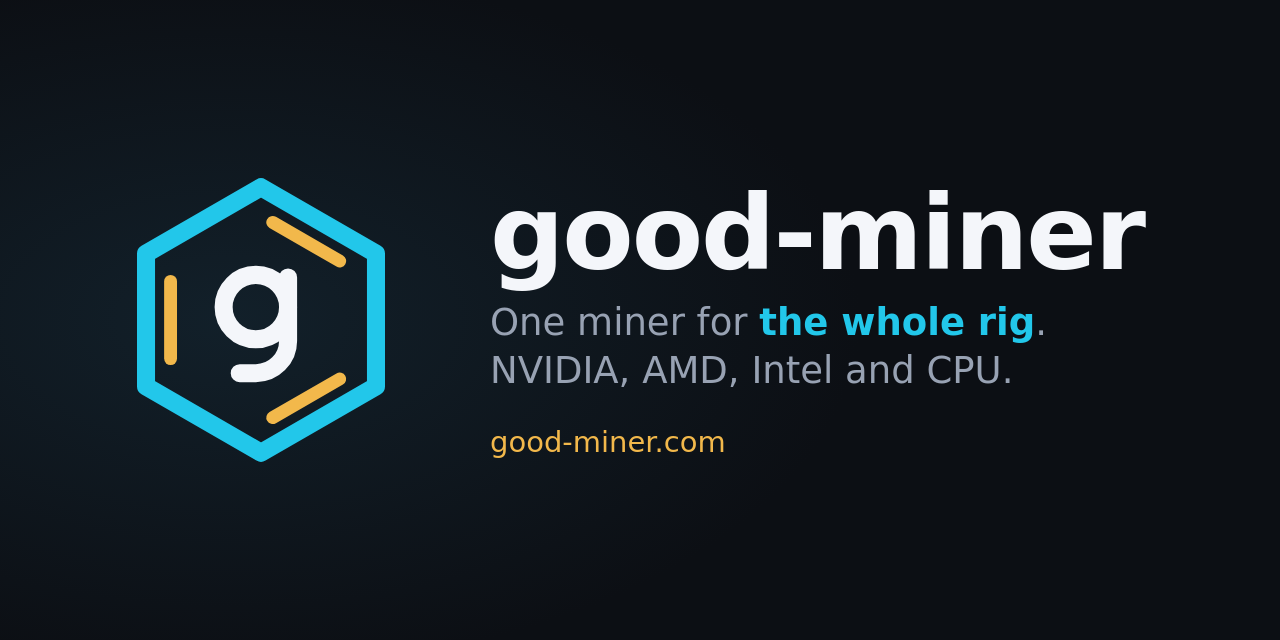
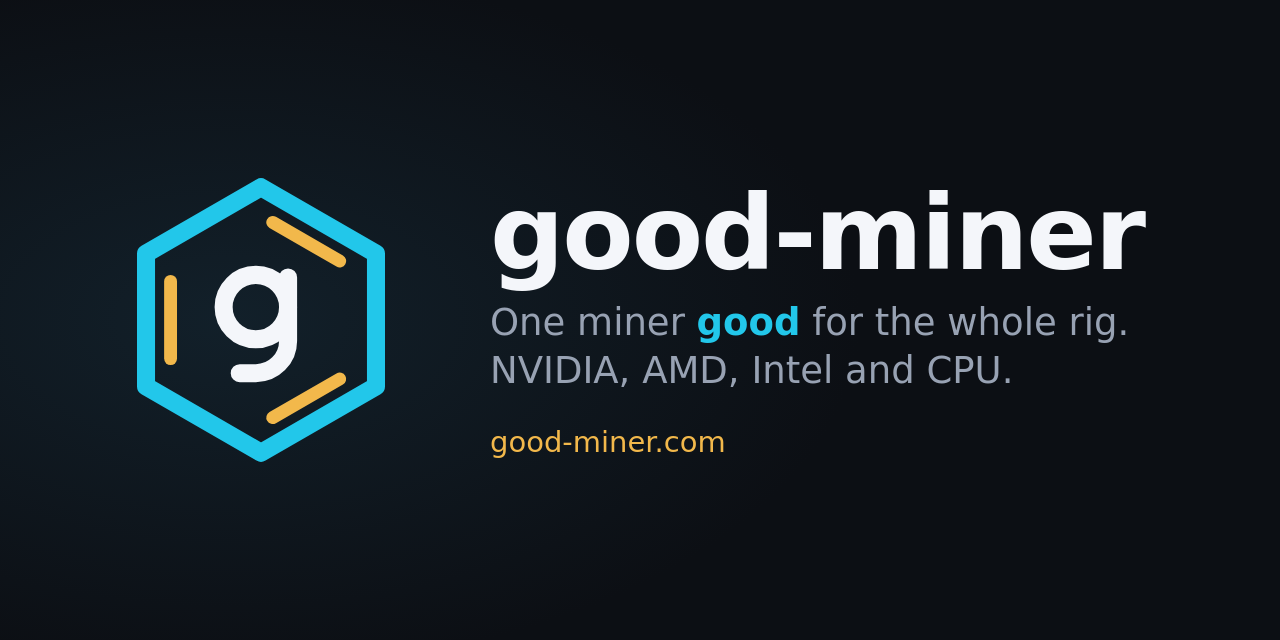
One miner good for the whole rig

Changed region(s): [[0.5312, 0.4688, 0.875, 0.5312]]

diff --git a/index.html b/index.html
@@ -3,10 +3,10 @@
 <head>
 <meta charset="utf-8">
 <meta name="viewport" content="width=device-width, initial-scale=1">
-<title>good-miner: one miner for the whole rig</title>
+<title>good-miner: one miner good for the whole rig</title>
 <meta name="description" content="good-miner is a cryptocurrency miner written from scratch in Rust. One program for NVIDIA, AMD and Intel graphics and CPUs, with auto profit switching and a built-in dashboard. Windows and Linux.">
 <meta property="og:title" content="good-miner">
-<meta property="og:description" content="One miner for the whole rig: NVIDIA, AMD, Intel and CPU, auto profit switching, a dashboard in your pocket.">
+<meta property="og:description" content="One miner good for the whole rig: NVIDIA, AMD, Intel and CPU, auto profit switching, a dashboard in your pocket.">
 <meta property="og:image" content="https://good-miner.com/img/social-preview.png">
 <meta name="twitter:card" content="summary_large_image">
 <meta property="og:url" content="https://good-miner.com/">
@@ -74,7 +74,7 @@ footer .wrap{display:flex;justify-content:space-between;gap:16px;flex-wrap:wrap}
 <main>
 <div class="wrap hero">
   <div class="tag">Public beta in preparation</div>
-  <h1>One miner for <span>the whole rig</span></h1>
+  <h1>One miner <span>good</span> for the whole rig</h1>
   <p class="lead">good-miner is written from scratch in Rust. One program mines on NVIDIA, AMD and Intel graphics and on CPUs, picks the most profitable coin for your hardware, and puts a dashboard in your pocket.</p>
   <div class="cta">
     <a class="btn primary" href="https://github.com/good-mining/good-miner">Documentation on GitHub</a>
